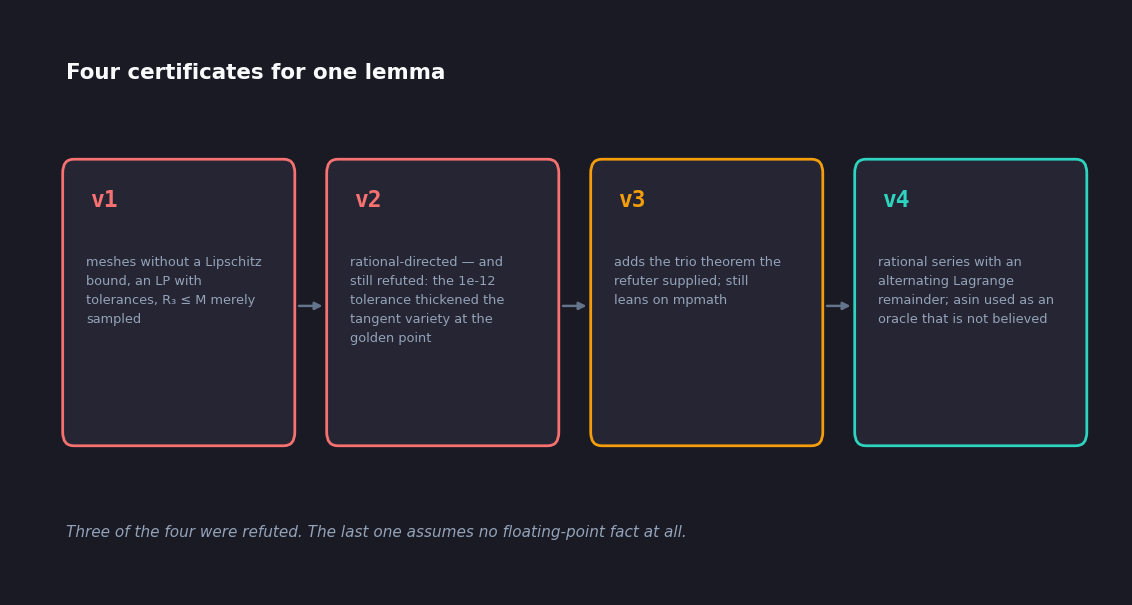
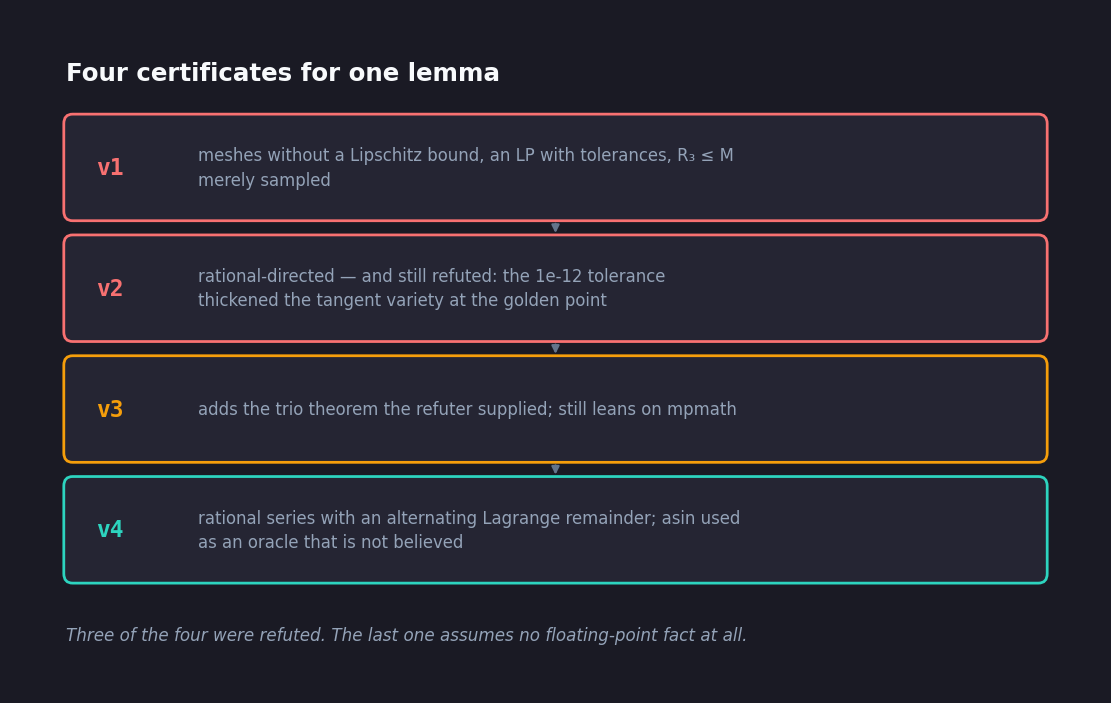
Fix the pi phrasing and make the certificate figure readable

Changed region(s): [[0.0306, 0.0893, 0.9793, 0.8331], [0.0612, 0.8628, 0.6733, 0.9223], [0.0918, 0.5653, 0.1224, 0.595]]

diff --git a/docs/marketing/hero-sources/proved-certified-swept-sampled.py b/docs/marketing/hero-sources/proved-certified-swept-sampled.py
@@ -180,31 +180,33 @@ def fig_tolerance(lang):
 
 
 def fig_rounds(lang):
+    """Four stacked rows, not four columns: at blog column width a 1x4 grid
+    shrinks the text below reading size."""
     s = STR[lang]
     rounds = s["rounds"]
-    fig = plt.figure(figsize=(9.8, 5.0), dpi=110)
+    fig = plt.figure(figsize=(9.6, 5.9), dpi=110)
     fig.patch.set_facecolor(BG)
     ax = fig.add_axes([0, 0, 1, 1])
-    ax.set_xlim(0, 9.8)
-    ax.set_ylim(0.95, 5.0)
+    ax.set_xlim(0, 9.6)
+    ax.set_ylim(0.42, 5.9)
     ax.axis("off")
 
-    ax.text(0.35, 4.62, s["f2_title"], color=TEXT, fontsize=14, fontweight="bold")
+    ax.text(0.35, 5.45, s["f2_title"], color=TEXT, fontsize=16, fontweight="bold")
 
     for i, (name, blurb, colour) in enumerate(rounds):
-        x = 0.35 + i * 2.40
-        ax.add_patch(FancyBboxPatch((x, 1.95), 2.05, 2.05,
-                                    boxstyle="round,pad=0.03,rounding_size=0.10",
+        y = 4.28 - i * 1.02
+        ax.add_patch(FancyBboxPatch((0.35, y), 8.9, 0.86,
+                                    boxstyle="round,pad=0.02,rounding_size=0.08",
                                     facecolor=PANEL, edgecolor=colour, linewidth=1.8))
-        ax.text(x + 0.22, 3.68, name, color=colour, fontsize=15,
-                family="monospace", fontweight="bold")
-        ax.text(x + 0.18, 3.32, textwrap.fill(blurb, 27), color=MUTED, fontsize=8.4,
-                va="top", linespacing=1.6)
+        ax.text(0.62, y + 0.43, name, color=colour, fontsize=15,
+                va="center", family="monospace", fontweight="bold")
+        ax.text(1.55, y + 0.43, textwrap.fill(blurb, 66), color=MUTED, fontsize=10.8,
+                va="center", linespacing=1.45)
         if i < len(rounds) - 1:
-            ax.annotate("", xy=(x + 2.36, 2.95), xytext=(x + 2.09, 2.95),
-                        arrowprops=dict(arrowstyle="-|>", color=SLATE, lw=1.6))
+            ax.annotate("", xy=(4.8, y - 0.15), xytext=(4.8, y - 0.02),
+                        arrowprops=dict(arrowstyle="-|>", color=SLATE, lw=1.5))
 
-    ax.text(0.35, 1.25, s["f2_cap"], color=MUTED, fontsize=10, fontstyle="italic")
+    ax.text(0.35, 0.72, s["f2_cap"], color=MUTED, fontsize=11, fontstyle="italic")
     save(fig, f"{SLUG}-fig-2-{lang}.png")
 
 

diff --git a/src/content/blog/es/proved-certified-swept-sampled.md b/src/content/blog/es/proved-certified-swept-sampled.md
@@ -68,7 +68,7 @@ La tercera versión reparó la tangencia pero seguía apoyándose en `mpmath` pa
 
 - $\arcsin$ se acota por una **serie racional pura**, con $\sin^2$ y $\cos$ encajonados en $\mathbb{Q}$ mediante un resto de Lagrange alternante — así que la cota es un teorema sobre la serie, no una llamada a una librería.
 - Toda suma y resta de intervalos usa redondeo dirigido, avanzando un ULP hacia fuera tras cada operación, de modo que el intervalo es una cota exterior de verdad y no una esperanza.
-- $\pi$ y $2\pi$ se certifican en $\mathbb{Q}$ con la misma serie, porque un certificado que mete un float para $\pi$ acaba de asumir justo lo que está comprobando.
+- $\pi$ y $2\pi$ quedan encerrados entre **cotas racionales** demostradas con esa misma serie. Racionales no son, claro; las cotas sí, y cotas es todo lo que el certificado necesita. Uno que mete un float para $\pi$ acaba de asumir parte de lo que está comprobando.
 - La `math.asin` de la librería se sigue llamando — como **oráculo al que no se cree**. Propone dónde mirar; decide un bracket con certeza en cada dirección. Si el oráculo mintiera, la búsqueda se ensancharía en vez de aceptar.
 
 El resultado cierra el dominio con cero tolerancias, cero exclusiones y ningún hecho en coma flotante asumido en ninguna parte.

diff --git a/src/content/blog/en/proved-certified-swept-sampled.md b/src/content/blog/en/proved-certified-swept-sampled.md
@@ -68,7 +68,7 @@ The third version repaired the tangency but still leaned on `mpmath` for the inv
 
 - $\arcsin$ is bounded by a **pure rational series**, with $\sin^2$ and $\cos$ bracketed in $\mathbb{Q}$ by an alternating Lagrange remainder — so the bound is a theorem about the series, not a call to a library.
 - Every interval addition and subtraction uses directed rounding, stepping one ULP outward after each operation, so the interval is a genuine outer bound rather than a hopeful one.
-- $\pi$ and $2\pi$ are themselves certified in $\mathbb{Q}$ by the same series, because a certificate that hardcodes a float for $\pi$ has just assumed the thing it is checking.
+- $\pi$ and $2\pi$ are enclosed between **rational bounds** proved by that same series. They are not rational, of course; the bounds are, and bounds are all the certificate ever needs. One that hardcodes a float for $\pi$ has just assumed part of what it is checking.
 - The library's `math.asin` is still called — as an **oracle that is not believed**. It proposes where to look; a bracket with certainty in each direction decides. If the oracle lied, the search would widen rather than accept.
 
 The result closes the domain with zero tolerances, zero exclusions, and no floating-point fact assumed anywhere.

diff --git a/docs/marketing/x-thread-proved-certified-swept-sampled.md b/docs/marketing/x-thread-proved-certified-swept-sampled.md
@@ -82,7 +82,7 @@ v4 assumes no floating-point fact at all:
 
 • arcsine bounded by a pure rational series (alternating Lagrange remainder)
 • directed rounding, one ULP outward per operation
-• π certified in ℚ by that same series
+• rational bounds for π proved by that series
 • math.asin called as an oracle that is NOT believed
 ```
 
